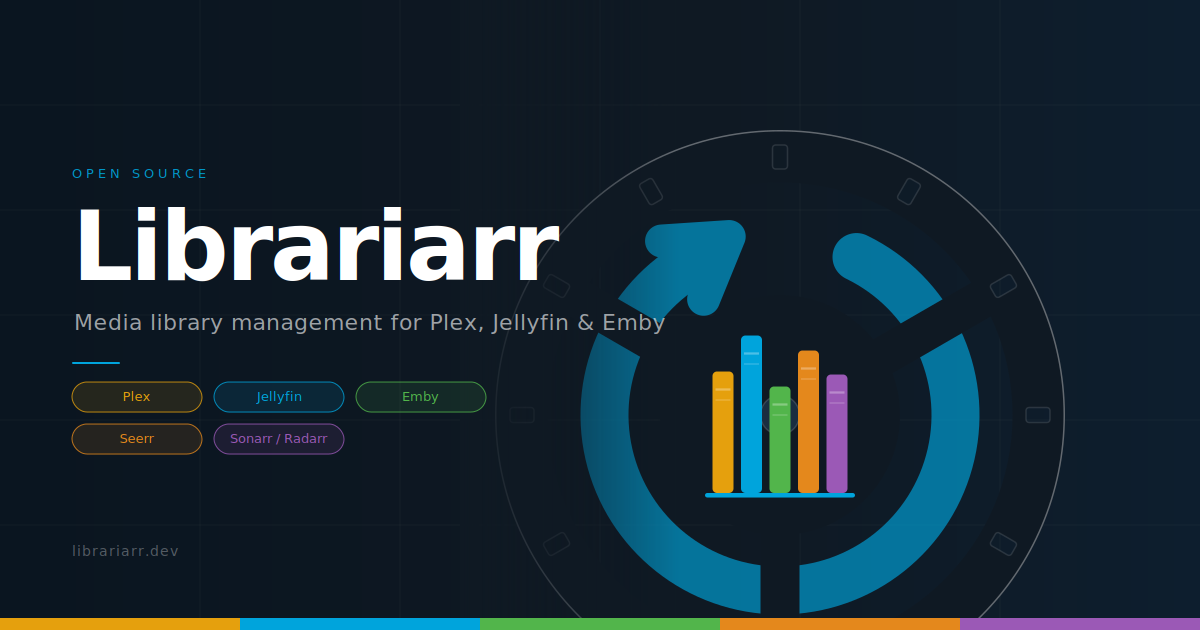
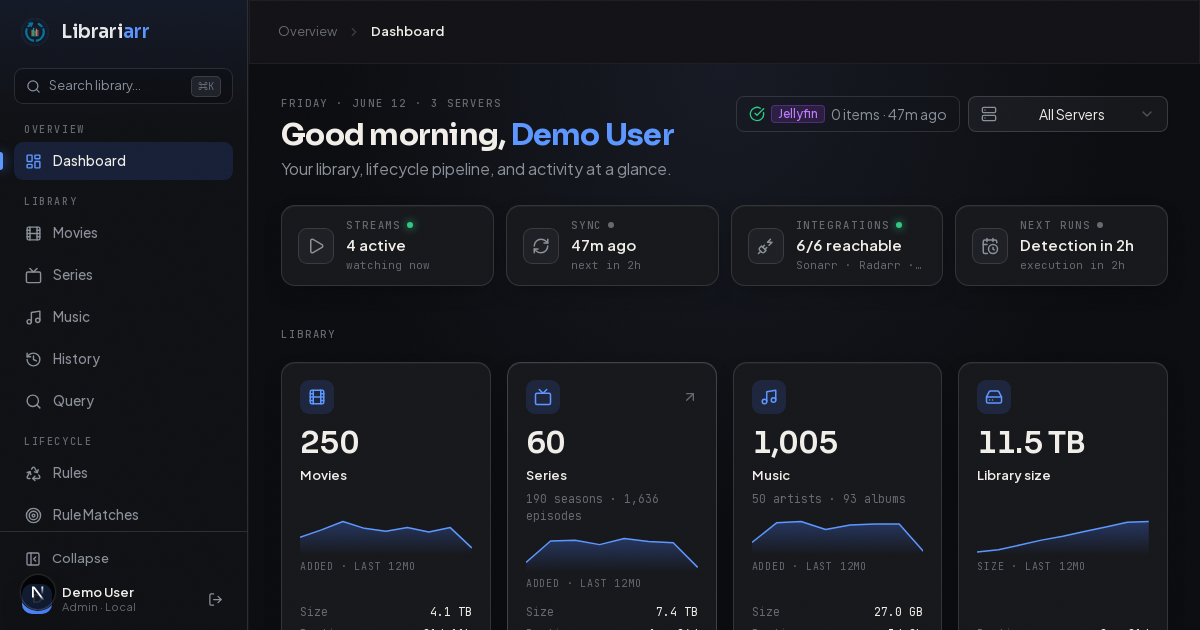
docs: refresh the site with new UI screenshots and app-aligned theming
Landing page now opens on a framed dashboard screenshot and walks
through Insights, library browsing, lifecycle rules, and the stream
manager with alternating screenshot rows; accent tokens, mono eyebrow
labels, and gradients now mirror the app's brand hue. Docs pages embed
the dashboard, Insights, library, and search shots, gain an install-as-
PWA section, and correct the mobile toolbar-pinning claim. The docs are
pinned to dark to match the dark-only app, the OG card is regenerated
from the new dashboard, and markdown.gfm is set explicitly — Astro 6
stopped applying GFM to MDX, which had every table rendering as raw
pipe text.

https://claude.ai/code/session_01LeuUVD7Nfj4vsF2EZreKpj

diff --git a/docs/src/styles/custom.css b/docs/src/styles/custom.css
@@ -64,3 +64,9 @@ header {
 :focus-visible {
   outline-color: oklch(0.55 0.26 264);
 }
+
+/* Librariarr is dark-only — the docs are pinned to dark (see astro.config
+   head script), so hide the light/dark selector. */
+starlight-theme-select {
+  display: none;
+}